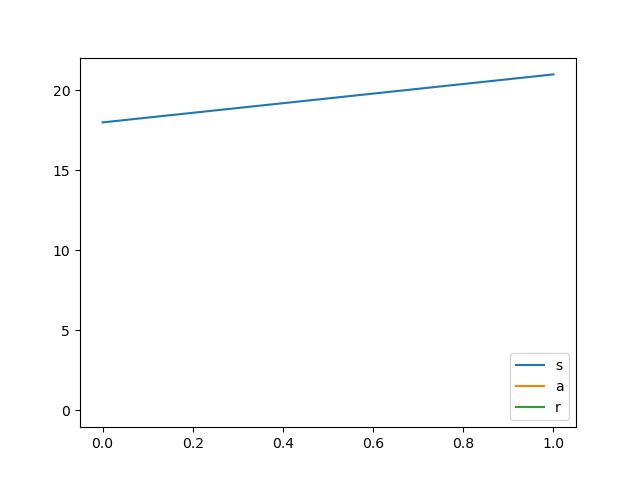
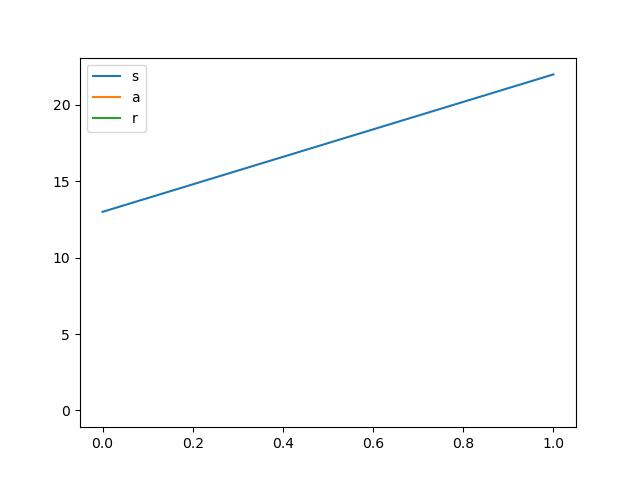
train_pendulum first draft done

diff --git a/train_discrete_pendulum.py b/train_discrete_pendulum.py
@@ -1,0 +1,95 @@
+import random
+import numpy as np
+import matplotlib.pyplot as plt
+import discrete_pendulum
+from solver_gridworld import PolicyIteration, ValueIteration, SARSA, QLearning
+
+def test_x_to_s(env):
+    theta = np.linspace(-np.pi * (1 - (1 / env.n_theta)), np.pi * (1 - (1 / env.n_theta)), env.n_theta)
+    thetadot = np.linspace(-env.max_thetadot * (1 - (1 / env.n_thetadot)), env.max_thetadot * (1 - (1 / env.n_thetadot)), env.n_thetadot)
+    for s in range(env.num_states):
+        i = s // env.n_thetadot
+        j = s % env.n_thetadot
+        s1 = env._x_to_s([theta[i], thetadot[j]])
+        if s1 != s:
+            raise Exception(f'test_x_to_s: error in state representation: {s} and {s1} should be the same')
+    print('test_x_to_s: passed')
+
+
+def main():
+    # Create environment
+    #
+    #   By default, both the state space (theta, thetadot) and the action space
+    #   (tau) are discretized with 31 grid points in each dimension, for a total
+    #   of 31 x 31 states and 31 actions.
+    #
+    #   You can change the number of grid points as follows (for example):
+    #
+    #       env = discrete_pendulum.Pendulum(n_theta=11, n_thetadot=51, n_tau=21)
+    #
+    #   Note that there will only be a grid point at "0" along a given dimension
+    #   if the number of grid points in that dimension is odd.
+    #
+    #   How does performance vary with the number of grid points? What about
+    #   computation time?
+    env = discrete_pendulum.Pendulum(n_theta=31, n_thetadot=31,n_tau=31) #15,21
+
+    # constants and parameters
+    theta=0.0005
+    gamma=0.95
+    eps=0.8
+    alpha=0.2
+    num_episodes=5000
+
+    # Apply unit test to check state representation
+    test_x_to_s(env)
+
+    # Initialize simulation
+    s = env.reset()
+
+    # SARSA
+    sarsa_agent=SARSA(theta, gamma, alpha, eps, num_episodes, env)
+    sarsa_values, sarsa_policy=sarsa_agent.learn_policy()
+    print('SARSA:',sarsa_values,sarsa_policy.policy)
+
+    # Q-Learning
+    QLearning_agent=QLearning(theta, gamma, alpha, eps, num_episodes, env)
+    QLearning_values, QLearning_policy=QLearning_agent.learn_policy()
+    print('Q-Learning:',QLearning_values,QLearning_policy.policy)
+
+    # Create log to store data from simulation
+    log = {
+        't': [0],
+        's': [s],
+        'a': [],
+        'r': [],
+        'theta': [env.x[0]],        # agent does not have access to this, but helpful for display
+        'thetadot': [env.x[1]],     # agent does not have access to this, but helpful for display
+    }
+
+    # Simulate until episode is done
+    done = False
+    while not done:
+        a = random.randrange(env.num_actions)
+        (s, r, done) = env.step(a)
+        log['t'].append(log['t'][-1] + 1)
+        log['s'].append(s)
+        log['a'].append(a)
+        log['r'].append(r)
+        log['theta'].append(env.x[0])
+        log['thetadot'].append(env.x[1])
+
+    # Plot data and save to png file
+    fig, ax = plt.subplots(2, 1, figsize=(10, 10))
+    ax[0].plot(log['t'], log['s'])
+    ax[0].plot(log['t'][:-1], log['a'])
+    ax[0].plot(log['t'][:-1], log['r'])
+    ax[0].legend(['s', 'a', 'r'])
+    ax[1].plot(log['t'], log['theta'])
+    ax[1].plot(log['t'], log['thetadot'])
+    ax[1].legend(['theta', 'thetadot'])
+    plt.savefig('figures/pendulum/test_discrete_pendulum.png')
+
+
+if __name__ == '__main__':
+    main()
